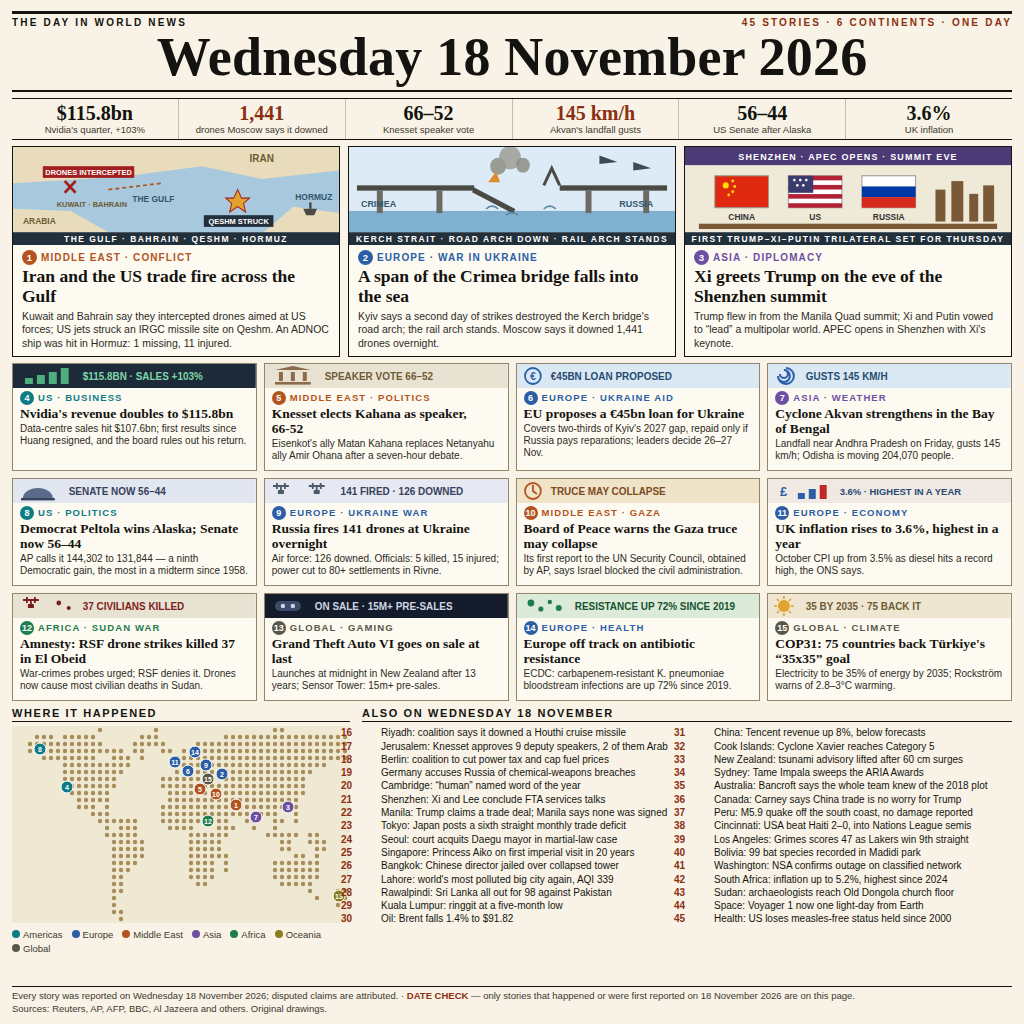
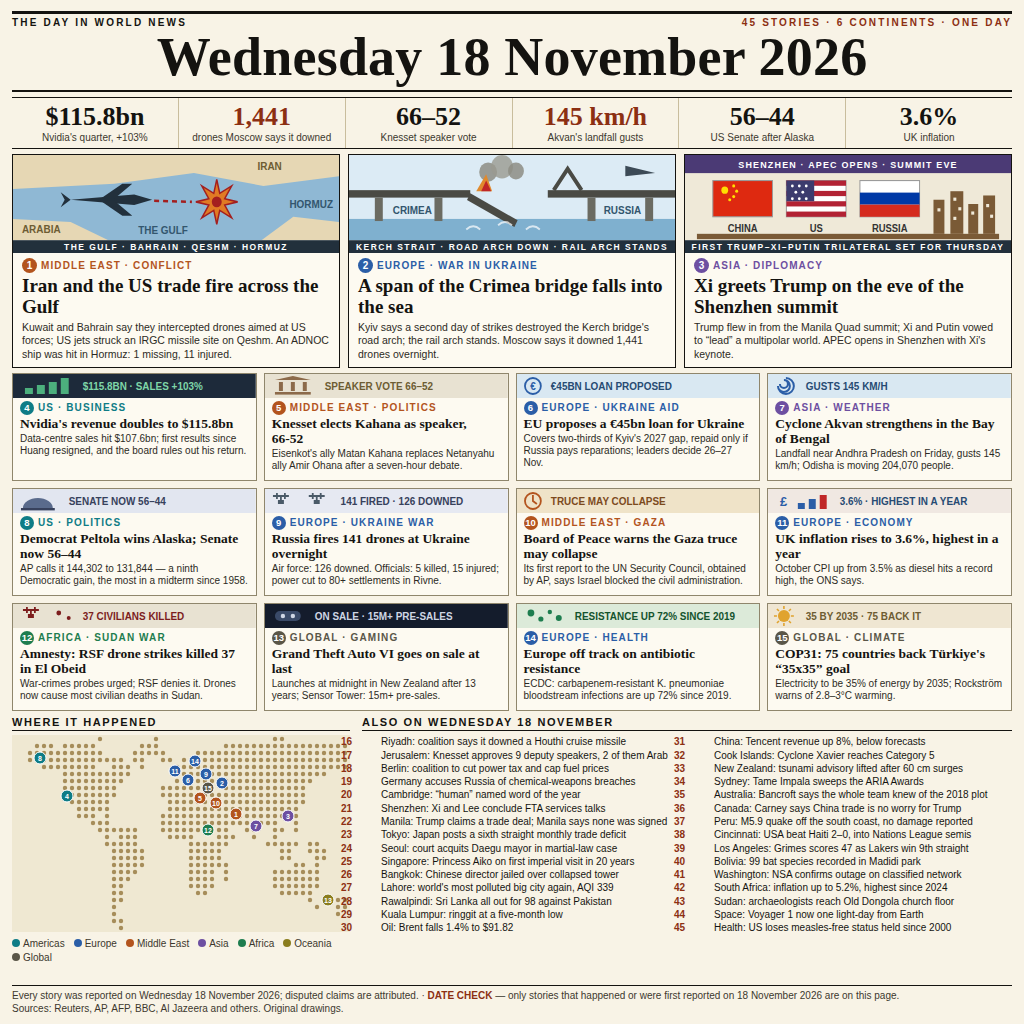
v2: full craft pass

diff --git a/page.html b/page.html
@@ -10,7 +10,7 @@
     background:#f8f3e6; color:#141310;
     font-family: Arial, Helvetica, sans-serif;
     padding:11px 12px 9px 12px;
-    display:flex; flex-direction:column; gap:6px;
+    display:flex; flex-direction:column; gap:5px;
     overflow:hidden;
   }
   .serif { font-family: Georgia, 'Times New Roman', serif; }
@@ -23,10 +23,10 @@
 
   /* ---------- stat strip ---------- */
   .stats { display:flex; border-top:1px solid #141310; border-bottom:1px solid #141310; }
-  .stat { flex:1; text-align:center; padding:4px 3px 3px 3px; border-right:1px solid #c9bd9d; }
+  .stat { flex:1; text-align:center; padding:5px 3px 4px 3px; border-right:1px solid #c9bd9d; }
   .stat:last-child { border-right:none; }
-  .stat b { display:block; font-family:Georgia,'Times New Roman',serif; font-size:20px; line-height:1.05; }
-  .stat span { display:block; font-size:9.5px; line-height:1.15; color:#3c382e; margin-top:1px; }
+  .stat b { display:block; font-family:Georgia,'Times New Roman',serif; font-size:26px; line-height:1.05; }
+  .stat span { display:block; font-size:10px; line-height:1.15; color:#3c382e; margin-top:2px; }
   .stat.hot b { color:#8c2f12; }
 
   /* ---------- lead cards ---------- */
@@ -35,8 +35,8 @@
   .lead svg { display:block; width:100%; height:98px; }
   .lead .body { padding:5px 9px 0 9px; }
   .tag { font-size:10px; font-weight:bold; letter-spacing:1.1px; }
-  .tag .n { display:inline-block; color:#fff; border-radius:50%; width:15px; height:15px; line-height:15px; text-align:center; font-size:9.5px; margin-right:4px; letter-spacing:0; }
-  .lead h2 { font-family:Georgia,'Times New Roman',serif; font-size:17.5px; line-height:1.14; margin:2px 0 3px 0; }
+  .tag .n { display:inline-block; color:#fff; border-radius:50%; width:15px; height:15px; line-height:15px; text-align:center; font-size:10px; margin-right:4px; letter-spacing:0; }
+  .lead h2 { font-family:Georgia,'Times New Roman',serif; font-size:19px; line-height:1.13; margin:2px 0 3px 0; }
   .lead p { font-size:10.5px; line-height:1.28; color:#2c2a24; }
   .c-eu { background:#2b5ea7; } .c-me { background:#b3541e; } .c-as { background:#6d4fa1; }
   .c-af { background:#1e7d4f; } .c-am { background:#0e7c86; } .c-gl { background:#5a5648; } .c-sp { background:#33302a; }
@@ -48,8 +48,8 @@
   .card { border:1px solid #8f866c; background:#fdfaf1; overflow:hidden; height:108px; }
   .card svg { display:block; width:100%; height:24px; }
   .card .body { padding:3px 7px 0 7px; }
-  .card .tag { font-size:9.5px; }
-  .card .tag .n { width:14px; height:14px; line-height:14px; font-size:9px; }
+  .card .tag { font-size:10px; }
+  .card .tag .n { width:14px; height:14px; line-height:14px; font-size:9.5px; }
   .card h3 { font-family:Georgia,'Times New Roman',serif; font-size:13.5px; line-height:1.12; margin:1px 0 2px 0; }
   .card p { font-size:10px; line-height:1.18; color:#2c2a24; }
 
@@ -58,7 +58,7 @@
   .mapbox { width:338px; flex:none; }
   .alsobox { flex:1; }
   .btitle { font-size:11px; font-weight:bold; letter-spacing:1.6px; border-bottom:1.5px solid #141310; padding-bottom:2px; margin-bottom:4px; }
-  .legend { display:flex; flex-wrap:wrap; gap:3px 9px; font-size:9.5px; color:#3c382e; margin-top:2px; }
+  .legend { display:flex; flex-wrap:wrap; gap:3px 9px; font-size:10px; color:#3c382e; margin-top:2px; }
   .legend i { display:inline-block; width:8px; height:8px; border-radius:50%; margin-right:3px; }
   .legend span { white-space:nowrap; }
   .also { list-style:none; columns:2; column-gap:16px; font-size:10px; line-height:1.33; }
@@ -66,7 +66,7 @@
   .also b { display:inline-block; min-width:19px; color:#8c2f12; }
 
   /* ---------- footer ---------- */
-  .footer { border-top:1.5px solid #141310; padding-top:3px; font-size:9.5px; line-height:1.3; color:#3c382e; display:flex; flex-direction:column; gap:0; }
+  .footer { border-top:1.5px solid #141310; padding-top:3px; font-size:10px; line-height:1.3; color:#3c382e; display:flex; flex-direction:column; gap:0; }
   .footer .dc { font-weight:bold; color:#8c2f12; }
 </style>
 </head>
@@ -93,24 +93,23 @@
 
     <article class="lead">
       <svg viewBox="0 0 328 92" preserveAspectRatio="none" aria-label="Gulf illustration">
-        <rect x="0" y="0" width="328" height="80" fill="#a8c8dd"/>
-        <path d="M0,0 L328,0 L328,22 L250,30 L190,18 L110,28 L0,34 Z" fill="#e8dcbc"/>
-        <path d="M0,80 L0,58 L58,60 L96,80 Z" fill="#e8dcbc"/>
-        <path d="M252,80 L282,56 L328,62 L328,80 Z" fill="#e8dcbc"/>
-        <text x="238" y="14" font-size="10" font-weight="bold" fill="#6d5c33">IRAN</text>
-        <text x="10" y="72" font-size="8.5" font-weight="bold" fill="#6d5c33">ARABIA</text>
-        <text x="120" y="52" font-size="8.5" font-weight="bold" fill="#33566e">THE GULF</text>
-        <text x="284" y="50" font-size="8.5" font-weight="bold" fill="#33566e">HORMUZ</text>
-        <path d="M96,40 L150,34" stroke="#b3541e" stroke-width="1.6" stroke-dasharray="4 3"/>
-        <path d="M52,32 l11,11 M63,32 l-11,11" stroke="#a31f1f" stroke-width="2.6"/>
-        <rect x="30" y="18" width="92" height="11" fill="#a31f1f"/>
-        <text x="76" y="26.5" font-size="7.5" font-weight="bold" fill="#fff" text-anchor="middle">DRONES INTERCEPTED</text>
-        <text x="44" y="56" font-size="7.5" font-weight="bold" fill="#6d5c33">KUWAIT &middot; BAHRAIN</text>
-        <polygon points="226,40 230,48 238,48 232,53 234,61 226,56 218,61 220,53 214,48 222,48" fill="#e0a32e" stroke="#a31f1f" stroke-width="1"/>
-        <rect x="192" y="64" width="70" height="11" fill="#22303c"/>
-        <text x="227" y="72.5" font-size="7.5" font-weight="bold" fill="#fff" text-anchor="middle">QESHM STRUCK</text>
-        <path d="M292,58 l14,0 l-3,6 l-8,0 Z" fill="#4a4a44"/>
-        <rect x="298" y="52" width="2.4" height="6" fill="#4a4a44"/>
+        <rect x="0" y="0" width="328" height="80" fill="#8fb8d4"/>
+        <path d="M0,0 L328,0 L328,20 L252,29 L182,17 L102,27 L0,32 Z" fill="#e6d7b4"/>
+        <path d="M0,80 L0,60 L58,63 L96,80 Z" fill="#e6d7b4"/>
+        <path d="M250,80 L282,58 L328,63 L328,80 Z" fill="#e6d7b4"/>
+        <text x="246" y="14" font-size="10" font-weight="bold" fill="#6d5c33">IRAN</text>
+        <text x="9" y="73" font-size="10" font-weight="bold" fill="#6d5c33">ARABIA</text>
+        <text x="126" y="74" font-size="10" font-weight="bold" fill="#33566e">THE GULF</text>
+        <text x="322" y="50" font-size="10" font-weight="bold" fill="#33566e" text-anchor="end">HORMUZ</text>
+        <path d="M142,43 L180,44" stroke="#a31f1f" stroke-width="2.4" stroke-dasharray="5 4"/>
+        <g fill="#22303c">
+          <polygon points="58,42 122,37 140,42 122,47"/>
+          <polygon points="88,41 110,27 120,27 102,41"/>
+          <polygon points="88,43 110,57 120,57 102,43"/>
+          <polygon points="58,42 48,35 52,42 48,49"/>
+        </g>
+        <polygon points="226,44 213,47 220,59 208,52 205,65 202,52 190,59 197,47 184,44 197,41 190,29 202,36 205,23 208,36 220,29 213,41" fill="#e07b24" stroke="#a31f1f" stroke-width="1.5"/>
+        <circle cx="205" cy="44" r="5" fill="#a31f1f"/>
         <rect x="0" y="80" width="328" height="12" fill="#22303c"/>
         <text x="164" y="89" font-size="8.5" font-weight="bold" fill="#ffffff" text-anchor="middle" letter-spacing="1.5">THE GULF &middot; BAHRAIN &middot; QESHM &middot; HORMUZ</text>
       </svg>
@@ -125,23 +124,23 @@
       <svg viewBox="0 0 328 92" preserveAspectRatio="none" aria-label="Crimea Bridge illustration">
         <rect x="0" y="0" width="328" height="60" fill="#dcebf5"/>
         <rect x="0" y="60" width="328" height="20" fill="#7fb0cf"/>
-        <polygon points="286,14 304,20 286,22" fill="#3c4a56"/>
-        <polygon points="252,8 270,14 252,16" fill="#3c4a56"/>
-        <rect x="8" y="36" width="118" height="5" fill="#4a4a44"/>
-        <rect x="126" y="38" width="46" height="5" fill="#4a4a44" transform="rotate(26 126 38)"/>
-        <path d="M196,36 L204,20 L212,36" fill="none" stroke="#4a4a44" stroke-width="3"/>
-        <rect x="212" y="36" width="108" height="5" fill="#4a4a44"/>
-        <rect x="28" y="41" width="6" height="21" fill="#6b6b62"/>
-        <rect x="88" y="41" width="6" height="21" fill="#6b6b62"/>
-        <rect x="238" y="41" width="6" height="21" fill="#6b6b62"/>
-        <rect x="296" y="41" width="6" height="21" fill="#6b6b62"/>
-        <circle cx="150" cy="18" r="8" fill="#8d8d84" opacity=".85"/>
-        <circle cx="162" cy="10" r="11" fill="#9a9a90" opacity=".8"/>
-        <circle cx="175" cy="17" r="7" fill="#8d8d84" opacity=".85"/>
-        <polygon points="140,33 148,23 152,33" fill="#e08a2e"/>
-        <path d="M138,58 q6,-5 12,0 M158,64 q6,-5 12,0 M196,58 q6,-5 12,0" stroke="#5b87a3" stroke-width="1.6" fill="none"/>
-        <text x="12" y="56" font-size="9" font-weight="bold" fill="#33566e">CRIMEA</text>
-        <text x="272" y="56" font-size="9" font-weight="bold" fill="#33566e">RUSSIA</text>
+        <polygon points="278,10 308,17 278,20" fill="#3c4a56"/>
+        <rect x="0" y="33" width="122" height="7" fill="#4a4a44"/>
+        <rect x="122" y="36" width="54" height="7" fill="#4a4a44" transform="rotate(28 122 36)"/>
+        <rect x="200" y="33" width="128" height="7" fill="#4a4a44"/>
+        <path d="M206,33 L220,13 L234,33" fill="none" stroke="#4a4a44" stroke-width="4"/>
+        <rect x="26" y="40" width="8" height="22" fill="#6b6b62"/>
+        <rect x="86" y="40" width="8" height="22" fill="#6b6b62"/>
+        <rect x="240" y="40" width="8" height="22" fill="#6b6b62"/>
+        <rect x="298" y="40" width="8" height="22" fill="#6b6b62"/>
+        <circle cx="140" cy="16" r="9" fill="#8d8d84" opacity=".85"/>
+        <circle cx="154" cy="11" r="11" fill="#9a9a90" opacity=".8"/>
+        <circle cx="168" cy="15" r="8" fill="#8d8d84" opacity=".85"/>
+        <polygon points="128,34 138,18 144,34" fill="#e08a2e"/>
+        <polygon points="133,34 138,24 143,34" fill="#c02727"/>
+        <path d="M118,70 q7,-6 14,0 M150,66 q7,-6 14,0 M178,70 q7,-6 14,0" stroke="#ffffff" stroke-width="1.8" fill="none" opacity=".7"/>
+        <text x="44" y="55" font-size="10" font-weight="bold" fill="#33566e">CRIMEA</text>
+        <text x="294" y="55" font-size="10" font-weight="bold" fill="#33566e" text-anchor="end">RUSSIA</text>
         <rect x="0" y="80" width="328" height="12" fill="#22303c"/>
         <text x="164" y="89" font-size="8.5" font-weight="bold" fill="#ffffff" text-anchor="middle" letter-spacing="1.5">KERCH STRAIT &middot; ROAD ARCH DOWN &middot; RAIL ARCH STANDS</text>
       </svg>
@@ -158,28 +157,31 @@
         <rect x="0" y="0" width="328" height="17" fill="#4b3a75"/>
         <text x="164" y="12" font-size="9" font-weight="bold" fill="#ffffff" text-anchor="middle" letter-spacing="1.2">SHENZHEN &middot; APEC OPENS &middot; SUMMIT EVE</text>
         <g>
-          <rect x="30" y="27" width="54" height="30" fill="#de2910" stroke="#999"/>
-          <circle cx="41" cy="36" r="3" fill="#ffde00"/>
-          <circle cx="48" cy="32" r="1.4" fill="#ffde00"/><circle cx="50" cy="37" r="1.4" fill="#ffde00"/><circle cx="48" cy="42" r="1.4" fill="#ffde00"/><circle cx="44" cy="45" r="1.4" fill="#ffde00"/>
-          <text x="57" y="69" font-size="8.5" font-weight="bold" text-anchor="middle" fill="#333">CHINA</text>
+          <rect x="28" y="24" width="60" height="34" fill="#de2910" stroke="#999"/>
+          <circle cx="40" cy="33" r="3.4" fill="#ffde00"/>
+          <circle cx="49" cy="29" r="1.5" fill="#ffde00"/><circle cx="52" cy="34" r="1.5" fill="#ffde00"/><circle cx="49" cy="39" r="1.5" fill="#ffde00"/><circle cx="45" cy="42" r="1.5" fill="#ffde00"/>
+          <text x="58" y="72" font-size="9.5" font-weight="bold" text-anchor="middle" fill="#333">CHINA</text>
         </g>
         <g>
-          <rect x="104" y="27" width="54" height="30" fill="#fff" stroke="#999"/>
-          <rect x="104" y="27" width="54" height="4.3" fill="#b22234"/><rect x="104" y="35.6" width="54" height="4.3" fill="#b22234"/><rect x="104" y="44.2" width="54" height="4.3" fill="#b22234"/><rect x="104" y="52.8" width="54" height="4.2" fill="#b22234"/>
-          <rect x="104" y="27" width="25" height="16" fill="#3c3b6e"/>
-          <circle cx="110" cy="31" r="1.3" fill="#fff"/><circle cx="116" cy="31" r="1.3" fill="#fff"/><circle cx="122" cy="31" r="1.3" fill="#fff"/><circle cx="113" cy="36" r="1.3" fill="#fff"/><circle cx="119" cy="36" r="1.3" fill="#fff"/>
-          <text x="131" y="69" font-size="8.5" font-weight="bold" text-anchor="middle" fill="#333">US</text>
+          <rect x="102" y="24" width="60" height="34" fill="#fff" stroke="#999"/>
+          <rect x="102" y="24" width="60" height="4.9" fill="#b22234"/><rect x="102" y="33.7" width="60" height="4.9" fill="#b22234"/><rect x="102" y="43.4" width="60" height="4.9" fill="#b22234"/><rect x="102" y="53.1" width="60" height="4.9" fill="#b22234"/>
+          <rect x="102" y="24" width="28" height="19.4" fill="#3c3b6e"/>
+          <circle cx="108" cy="29" r="1.4" fill="#fff"/><circle cx="115" cy="29" r="1.4" fill="#fff"/><circle cx="122" cy="29" r="1.4" fill="#fff"/><circle cx="111.5" cy="35" r="1.4" fill="#fff"/><circle cx="118.5" cy="35" r="1.4" fill="#fff"/><circle cx="108" cy="41" r="1.4" fill="#fff"/><circle cx="115" cy="41" r="1.4" fill="#fff"/><circle cx="122" cy="41" r="1.4" fill="#fff"/>
+          <text x="132" y="72" font-size="9.5" font-weight="bold" text-anchor="middle" fill="#333">US</text>
         </g>
         <g>
-          <rect x="178" y="27" width="54" height="30" fill="#fff" stroke="#999"/>
-          <rect x="178" y="37" width="54" height="10" fill="#0039a6"/>
-          <rect x="178" y="47" width="54" height="10" fill="#d52b1e"/>
-          <text x="205" y="69" font-size="8.5" font-weight="bold" text-anchor="middle" fill="#333">RUSSIA</text>
+          <rect x="176" y="24" width="60" height="34" fill="#fff" stroke="#999"/>
+          <rect x="176" y="35.3" width="60" height="11.3" fill="#0039a6"/>
+          <rect x="176" y="46.6" width="60" height="11.4" fill="#d52b1e"/>
+          <text x="206" y="72" font-size="9.5" font-weight="bold" text-anchor="middle" fill="#333">RUSSIA</text>
         </g>
         <g fill="#7a5a36">
-          <rect x="252" y="40" width="10" height="30"/><rect x="268" y="32" width="12" height="38"/><rect x="286" y="44" width="9" height="26"/><rect x="300" y="36" width="11" height="34"/>
+          <rect x="250" y="42" width="11" height="32"/><rect x="267" y="34" width="13" height="40"/><rect x="285" y="46" width="10" height="28"/><rect x="300" y="38" width="12" height="36"/>
         </g>
-        <rect x="14" y="72" width="300" height="5" fill="#7a5a36"/>
+        <g fill="#efe9d8">
+          <rect x="270" y="40" width="3" height="3"/><rect x="275" y="49" width="3" height="3"/><rect x="270" y="58" width="3" height="3"/><rect x="254" y="50" width="3" height="3"/><rect x="303" y="46" width="3" height="3"/><rect x="307" y="56" width="3" height="3"/><rect x="288" y="53" width="3" height="3"/>
+        </g>
+        <rect x="12" y="74" width="304" height="5" fill="#7a5a36"/>
         <rect x="0" y="80" width="328" height="12" fill="#22303c"/>
         <text x="164" y="89" font-size="8.5" font-weight="bold" fill="#ffffff" text-anchor="middle" letter-spacing="1.5">FIRST TRUMP&ndash;XI&ndash;PUTIN TRILATERAL SET FOR THURSDAY</text>
       </svg>
@@ -258,7 +260,7 @@
     </article>
 
     <article class="card">
-      <svg viewBox="0 0 244 24" preserveAspectRatio="none"><rect width="244" height="24" fill="#f0e8e2"/><text x="12" y="17" font-size="13" font-weight="bold" fill="#2b5ea7">&pound;</text><rect x="30" y="14" width="7" height="6" fill="#2b5ea7"/><rect x="41" y="10" width="7" height="10" fill="#2b5ea7"/><rect x="52" y="6" width="7" height="14" fill="#c02727"/><text x="72" y="16" font-size="9.5" font-weight="bold" fill="#274b73">3.6% &middot; HIGHEST IN A YEAR</text></svg>
+      <svg viewBox="0 0 244 24" preserveAspectRatio="none"><rect width="244" height="24" fill="#f0e8e2"/><text x="12" y="17" font-size="13" font-weight="bold" fill="#2b5ea7">&pound;</text><rect x="30" y="14" width="7" height="6" fill="#2b5ea7"/><rect x="41" y="10" width="7" height="10" fill="#2b5ea7"/><rect x="52" y="6" width="7" height="14" fill="#c02727"/><text x="72" y="16" font-size="10" font-weight="bold" fill="#274b73">3.6% &middot; HIGHEST IN A YEAR</text></svg>
       <div class="body">
         <div class="tag t-eu"><span class="n c-eu">11</span>EUROPE &middot; ECONOMY</div>
         <h3>UK inflation rises to 3.6%, highest in a year</h3>
@@ -325,7 +327,7 @@
           <g><circle cx="196" cy="95" r="6" fill="#1e7d4f" stroke="#fff" stroke-width="1"/><text x="196" y="97.5">12</text></g>
           <g><circle cx="244" cy="91" r="6" fill="#6d4fa1" stroke="#fff" stroke-width="1"/><text x="244" y="93.5">7</text></g>
           <g><circle cx="276" cy="81" r="6" fill="#6d4fa1" stroke="#fff" stroke-width="1"/><text x="276" y="83.5">3</text></g>
-          <g><circle cx="327" cy="170" r="6" fill="#8a7d1e" stroke="#fff" stroke-width="1"/><text x="327" y="172.5">13</text></g>
+          <g><circle cx="316" cy="165" r="6" fill="#8a7d1e" stroke="#fff" stroke-width="1"/><text x="316" y="167.5">13</text></g>
         </g>
       </svg>
       <div class="legend">
